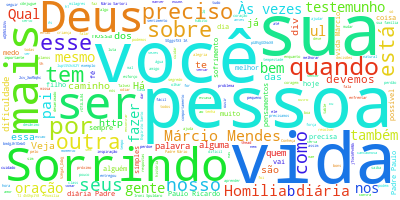
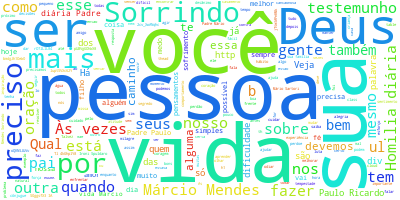
recolhimento julho

diff --git a/faith.html b/faith.html
@@ -145,6 +145,11 @@
           
         <img src="cloud.png" class="rounded">
       
+<!--
+  geração da cloud:
+  wordcloud_cli --background white --text faith.html --imagefile cloud.png --stopwords stopwords.txt
+-->
+
         <br>
         <br>
         Seguem mais recomendações.
